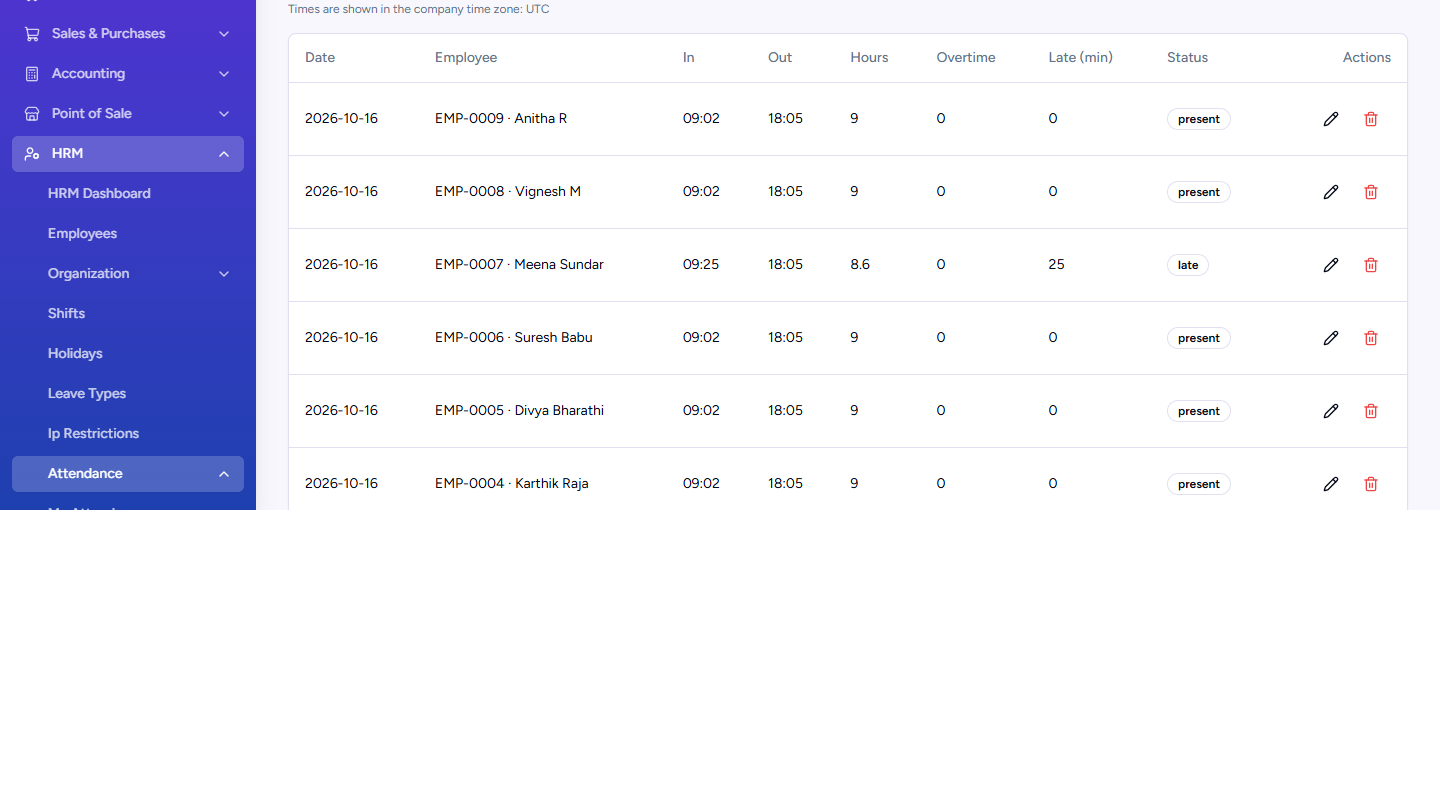
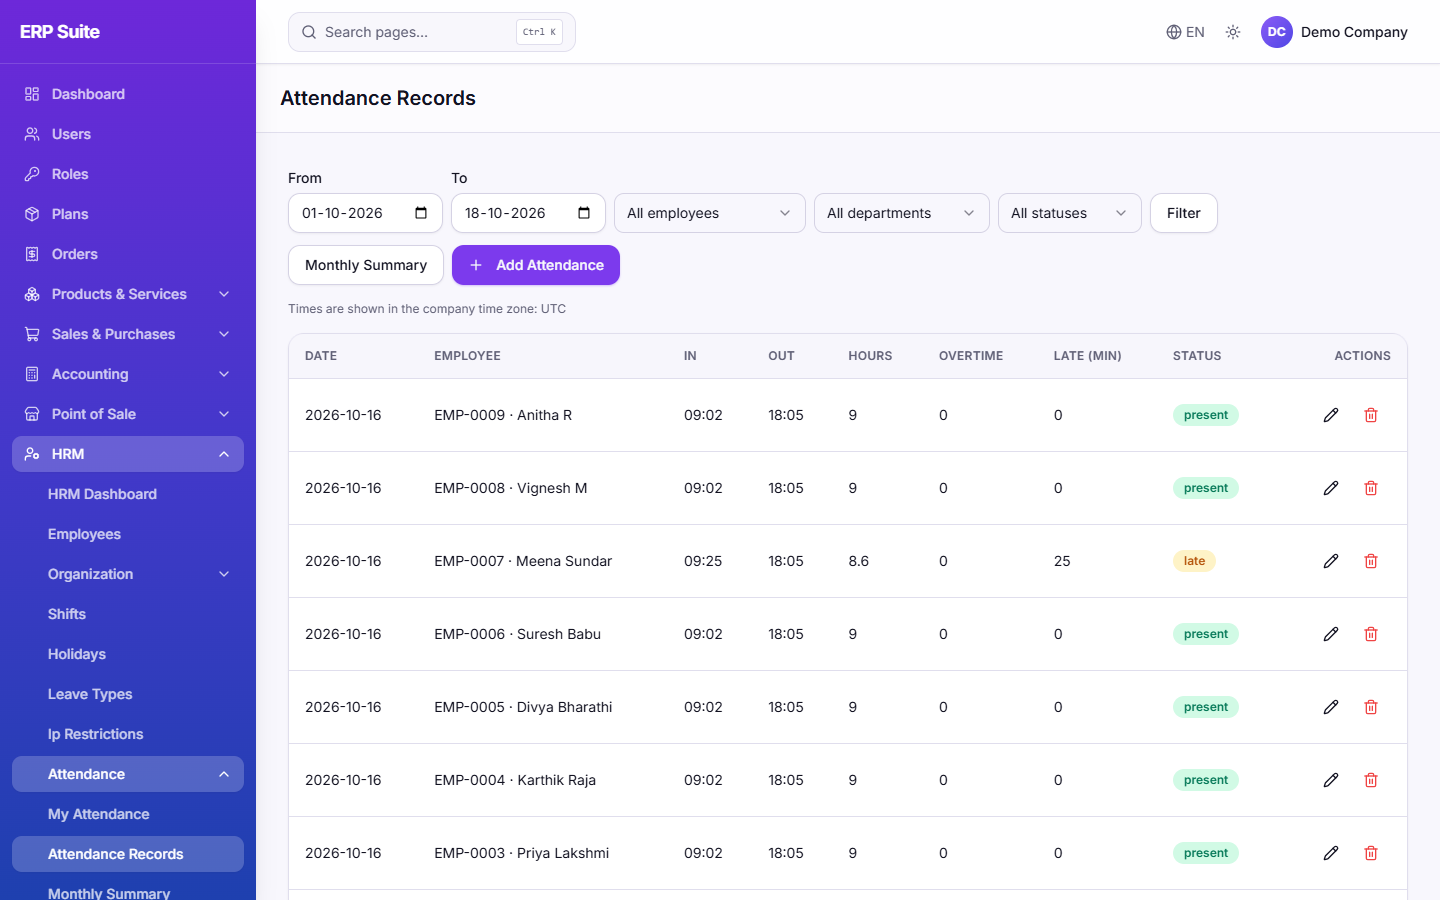
Semantic status badges, refreshed screenshots and poster

diff --git a/main-app/packages/modules/Hrm/src/Resources/js/Pages/Attendances/Index.tsx b/main-app/packages/modules/Hrm/src/Resources/js/Pages/Attendances/Index.tsx
@@ -25,6 +25,8 @@ import { Pencil, Plus, Trash2 } from 'lucide-react';
 import { FormEvent, useState } from 'react';
 import { useTranslation } from 'react-i18next';
 
+const ATTENDANCE_TONE: Record<string, 'success' | 'warning' | 'danger' | 'info' | 'outline'> = { present: 'success', late: 'warning', absent: 'danger', half_day: 'info', leave: 'info' };
+
 interface Row {
     id: number;
     employee_id: number;
@@ -159,7 +161,7 @@ export default function AttendancesIndex({ records, employees, departments, stat
                                         <TableCell>{r.total_hours}</TableCell>
                                         <TableCell>{r.overtime_hours}</TableCell>
                                         <TableCell>{r.late_minutes}</TableCell>
-                                        <TableCell><Badge variant={r.status === 'absent' ? 'destructive' : 'outline'}>{t(r.status)}</Badge></TableCell>
+                                        <TableCell><Badge variant={ATTENDANCE_TONE[r.status] ?? 'outline'}>{t(r.status)}</Badge></TableCell>
                                         <TableCell className="text-right">
                                             {can('edit-attendances') && <Button size="icon" variant="ghost" onClick={() => openEdit(r)}><Pencil className="h-4 w-4" /></Button>}
                                             {can('delete-attendances') && <Button size="icon" variant="ghost" onClick={() => setDeleting(r)}><Trash2 className="h-4 w-4 text-destructive" /></Button>}

diff --git a/main-app/packages/modules/Hrm/src/Resources/js/Pages/Attendances/My.tsx b/main-app/packages/modules/Hrm/src/Resources/js/Pages/Attendances/My.tsx
@@ -8,6 +8,8 @@ import { LogIn, LogOut } from 'lucide-react';
 import { useState } from 'react';
 import { useTranslation } from 'react-i18next';
 
+const ATTENDANCE_TONE: Record<string, 'success' | 'warning' | 'danger' | 'info' | 'outline'> = { present: 'success', late: 'warning', absent: 'danger', half_day: 'info', leave: 'info' };
+
 interface Row {
     id: number;
     date: string;
@@ -83,7 +85,7 @@ export default function MyAttendance({ employee, open, recent, tz }: Props) {
                                                 <TableCell>{r.total_hours}</TableCell>
                                                 <TableCell>{r.overtime_hours}</TableCell>
                                                 <TableCell>{r.late_minutes}</TableCell>
-                                                <TableCell><Badge variant="outline">{t(r.status)}</Badge></TableCell>
+                                                <TableCell><Badge variant={ATTENDANCE_TONE[r.status] ?? 'outline'}>{t(r.status)}</Badge></TableCell>
                                             </TableRow>
                                         ))}
                                     </TableBody>

diff --git a/main-app/packages/modules/SalesPurchase/src/Resources/js/Pages/Documents/types.ts b/main-app/packages/modules/SalesPurchase/src/Resources/js/Pages/Documents/types.ts
@@ -86,15 +86,15 @@ export interface Abilities {
     returnType: string;
 }
 
-export const STATUS_VARIANT: Record<string, 'default' | 'secondary' | 'destructive' | 'outline'> = {
+export const STATUS_VARIANT: Record<string, 'default' | 'secondary' | 'destructive' | 'outline' | 'success' | 'warning' | 'info' | 'danger'> = {
     draft: 'secondary',
-    sent: 'outline',
-    accepted: 'default',
-    rejected: 'destructive',
-    converted: 'default',
-    posted: 'default',
-    approved: 'outline',
-    completed: 'default',
+    sent: 'info',
+    accepted: 'success',
+    rejected: 'danger',
+    converted: 'success',
+    posted: 'success',
+    approved: 'info',
+    completed: 'success',
 };
 
 /** URL slug of a document type key, e.g. sales_invoice -> sales-invoices (used for links between documents). */

diff --git a/main-app/packages/modules/Hrm/src/Resources/js/Pages/LeaveApplications/Index.tsx b/main-app/packages/modules/Hrm/src/Resources/js/Pages/LeaveApplications/Index.tsx
@@ -51,7 +51,7 @@ interface Props {
 
 const ALL = 'all';
 const empty = { employee_id: '', leave_type_id: '', start_date: '', end_date: '', reason: '' };
-const tone: Record<string, 'default' | 'secondary' | 'destructive' | 'outline'> = { pending: 'secondary', approved: 'default', rejected: 'destructive' };
+const tone: Record<string, 'default' | 'secondary' | 'destructive' | 'outline' | 'success' | 'warning' | 'info' | 'danger'> = { pending: 'warning', approved: 'success', rejected: 'danger' };
 
 export default function LeaveApplicationsIndex({ applications, leaveTypes, employees, myEmployeeId, can, balances, filters }: Props) {
     const { t } = useTranslation();

diff --git a/main-app/packages/modules/Hrm/src/Resources/js/Pages/Employees/Index.tsx b/main-app/packages/modules/Hrm/src/Resources/js/Pages/Employees/Index.tsx
@@ -43,7 +43,7 @@ interface Props {
     filters: { search?: string; branch?: string; department?: string; status?: string };
 }
 
-const STATUS_VARIANT: Record<string, 'default' | 'secondary' | 'destructive' | 'outline'> = { active: 'default', inactive: 'secondary', resigned: 'outline', terminated: 'destructive' };
+const STATUS_VARIANT: Record<string, 'default' | 'secondary' | 'destructive' | 'outline' | 'success' | 'warning' | 'info' | 'danger'> = { active: 'success', inactive: 'secondary', resigned: 'outline', terminated: 'danger' };
 const ALL = 'all';
 
 export default function EmployeesIndex({ employees, branches, departments, statuses, filters }: Props) {

diff --git a/main-app/packages/modules/Lead/src/Resources/js/Pages/Deals/Index.tsx b/main-app/packages/modules/Lead/src/Resources/js/Pages/Deals/Index.tsx
@@ -62,7 +62,7 @@ interface Props {
 
 const empty = { name: '', price: '', phone: '', notes: '', deal_stage_id: '', user_ids: [] as number[], client_ids: [] as number[], is_active: true };
 const ALL = 'all';
-const tone = { active: 'outline', won: 'default', lost: 'destructive' } as const;
+const tone = { active: 'outline', won: 'success', lost: 'danger' } as const;
 
 export default function DealsIndex({ pipelines, pipeline, stages, view, deals, users, clients, sourceOptions, labelOptions, productOptions, filters, can, can_detail }: Props) {
     const { t } = useTranslation();

diff --git a/main-app/packages/modules/Hrm/src/Resources/js/Pages/Employees/Show.tsx b/main-app/packages/modules/Hrm/src/Resources/js/Pages/Employees/Show.tsx
@@ -41,7 +41,7 @@ interface Props {
 }
 
 const NONE = 'none';
-const STATUS_VARIANT: Record<string, 'default' | 'secondary' | 'destructive' | 'outline'> = { active: 'default', inactive: 'secondary', resigned: 'outline', terminated: 'destructive' };
+const STATUS_VARIANT: Record<string, 'default' | 'secondary' | 'destructive' | 'outline' | 'success' | 'warning' | 'info' | 'danger'> = { active: 'success', inactive: 'secondary', resigned: 'outline', terminated: 'danger' };
 
 function Item({ label, children }: { label: string; children: ReactNode }) {
     return (

diff --git a/main-app/packages/modules/Hrm/src/Resources/js/Pages/Lifecycle/Index.tsx b/main-app/packages/modules/Hrm/src/Resources/js/Pages/Lifecycle/Index.tsx
@@ -54,7 +54,7 @@ interface Props {
 
 const NONE = 'none';
 const ALL = 'all';
-const tone = { pending: 'secondary', approved: 'default', rejected: 'destructive', applied: 'default' } as const;
+const tone = { pending: 'warning', approved: 'success', rejected: 'danger', applied: 'success' } as const;
 
 /** One page for promotions, resignations, terminations and transfers: the server describes the form and the table. */
 export default function LifecycleIndex({ kind, title, workflow, columns, fields, rows, can, filters }: Props) {

diff --git a/main-app/resources/js/Pages/Orders/Index.tsx b/main-app/resources/js/Pages/Orders/Index.tsx
@@ -24,7 +24,7 @@ interface OrderRow {
     user?: { name: string; email: string };
 }
 
-const statusVariant = { pending: 'secondary', paid: 'default', rejected: 'destructive' } as const;
+const statusVariant = { pending: 'warning', paid: 'success', rejected: 'danger' } as const;
 
 export default function OrdersIndex({ orders, filters, showCompany }: { orders: Paginated<OrderRow>; filters: { search?: string }; showCompany: boolean }) {
     const [search, setSearch] = useState(filters.search ?? '');

diff --git a/main-app/resources/js/Pages/BankTransfers/Index.tsx b/main-app/resources/js/Pages/BankTransfers/Index.tsx
@@ -23,7 +23,7 @@ interface Payment {
     user: { name: string; email: string };
 }
 
-const variant = { pending: 'secondary', approved: 'default', rejected: 'destructive' } as const;
+const variant = { pending: 'warning', approved: 'success', rejected: 'danger' } as const;
 
 export default function BankTransfersIndex({ payments }: { payments: Paginated<Payment> }) {
     const [rejecting, setRejecting] = useState<Payment | null>(null);

diff --git a/main-app/packages/modules/Hrm/src/Resources/js/Pages/Payrolls/Index.tsx b/main-app/packages/modules/Hrm/src/Resources/js/Pages/Payrolls/Index.tsx
@@ -29,7 +29,7 @@ interface Props {
     accountingActive: boolean;
 }
 
-const tone = { draft: 'secondary', approved: 'outline', paid: 'default' } as const;
+const tone = { draft: 'secondary', approved: 'info', paid: 'success' } as const;
 
 export default function PayrollsIndex({ payrolls, suggestedMonth, accountingActive }: Props) {
     const { t } = useTranslation();

diff --git a/main-app/packages/modules/Hrm/src/Resources/js/Pages/Resignation/My.tsx b/main-app/packages/modules/Hrm/src/Resources/js/Pages/Resignation/My.tsx
@@ -36,7 +36,7 @@ interface Props {
     today: string;
 }
 
-const tone = { pending: 'secondary', approved: 'default', rejected: 'destructive' } as const;
+const tone = { pending: 'warning', approved: 'success', rejected: 'danger' } as const;
 
 export default function MyResignation({ hasProfile, history, canApply, today }: Props) {
     const { t } = useTranslation();
